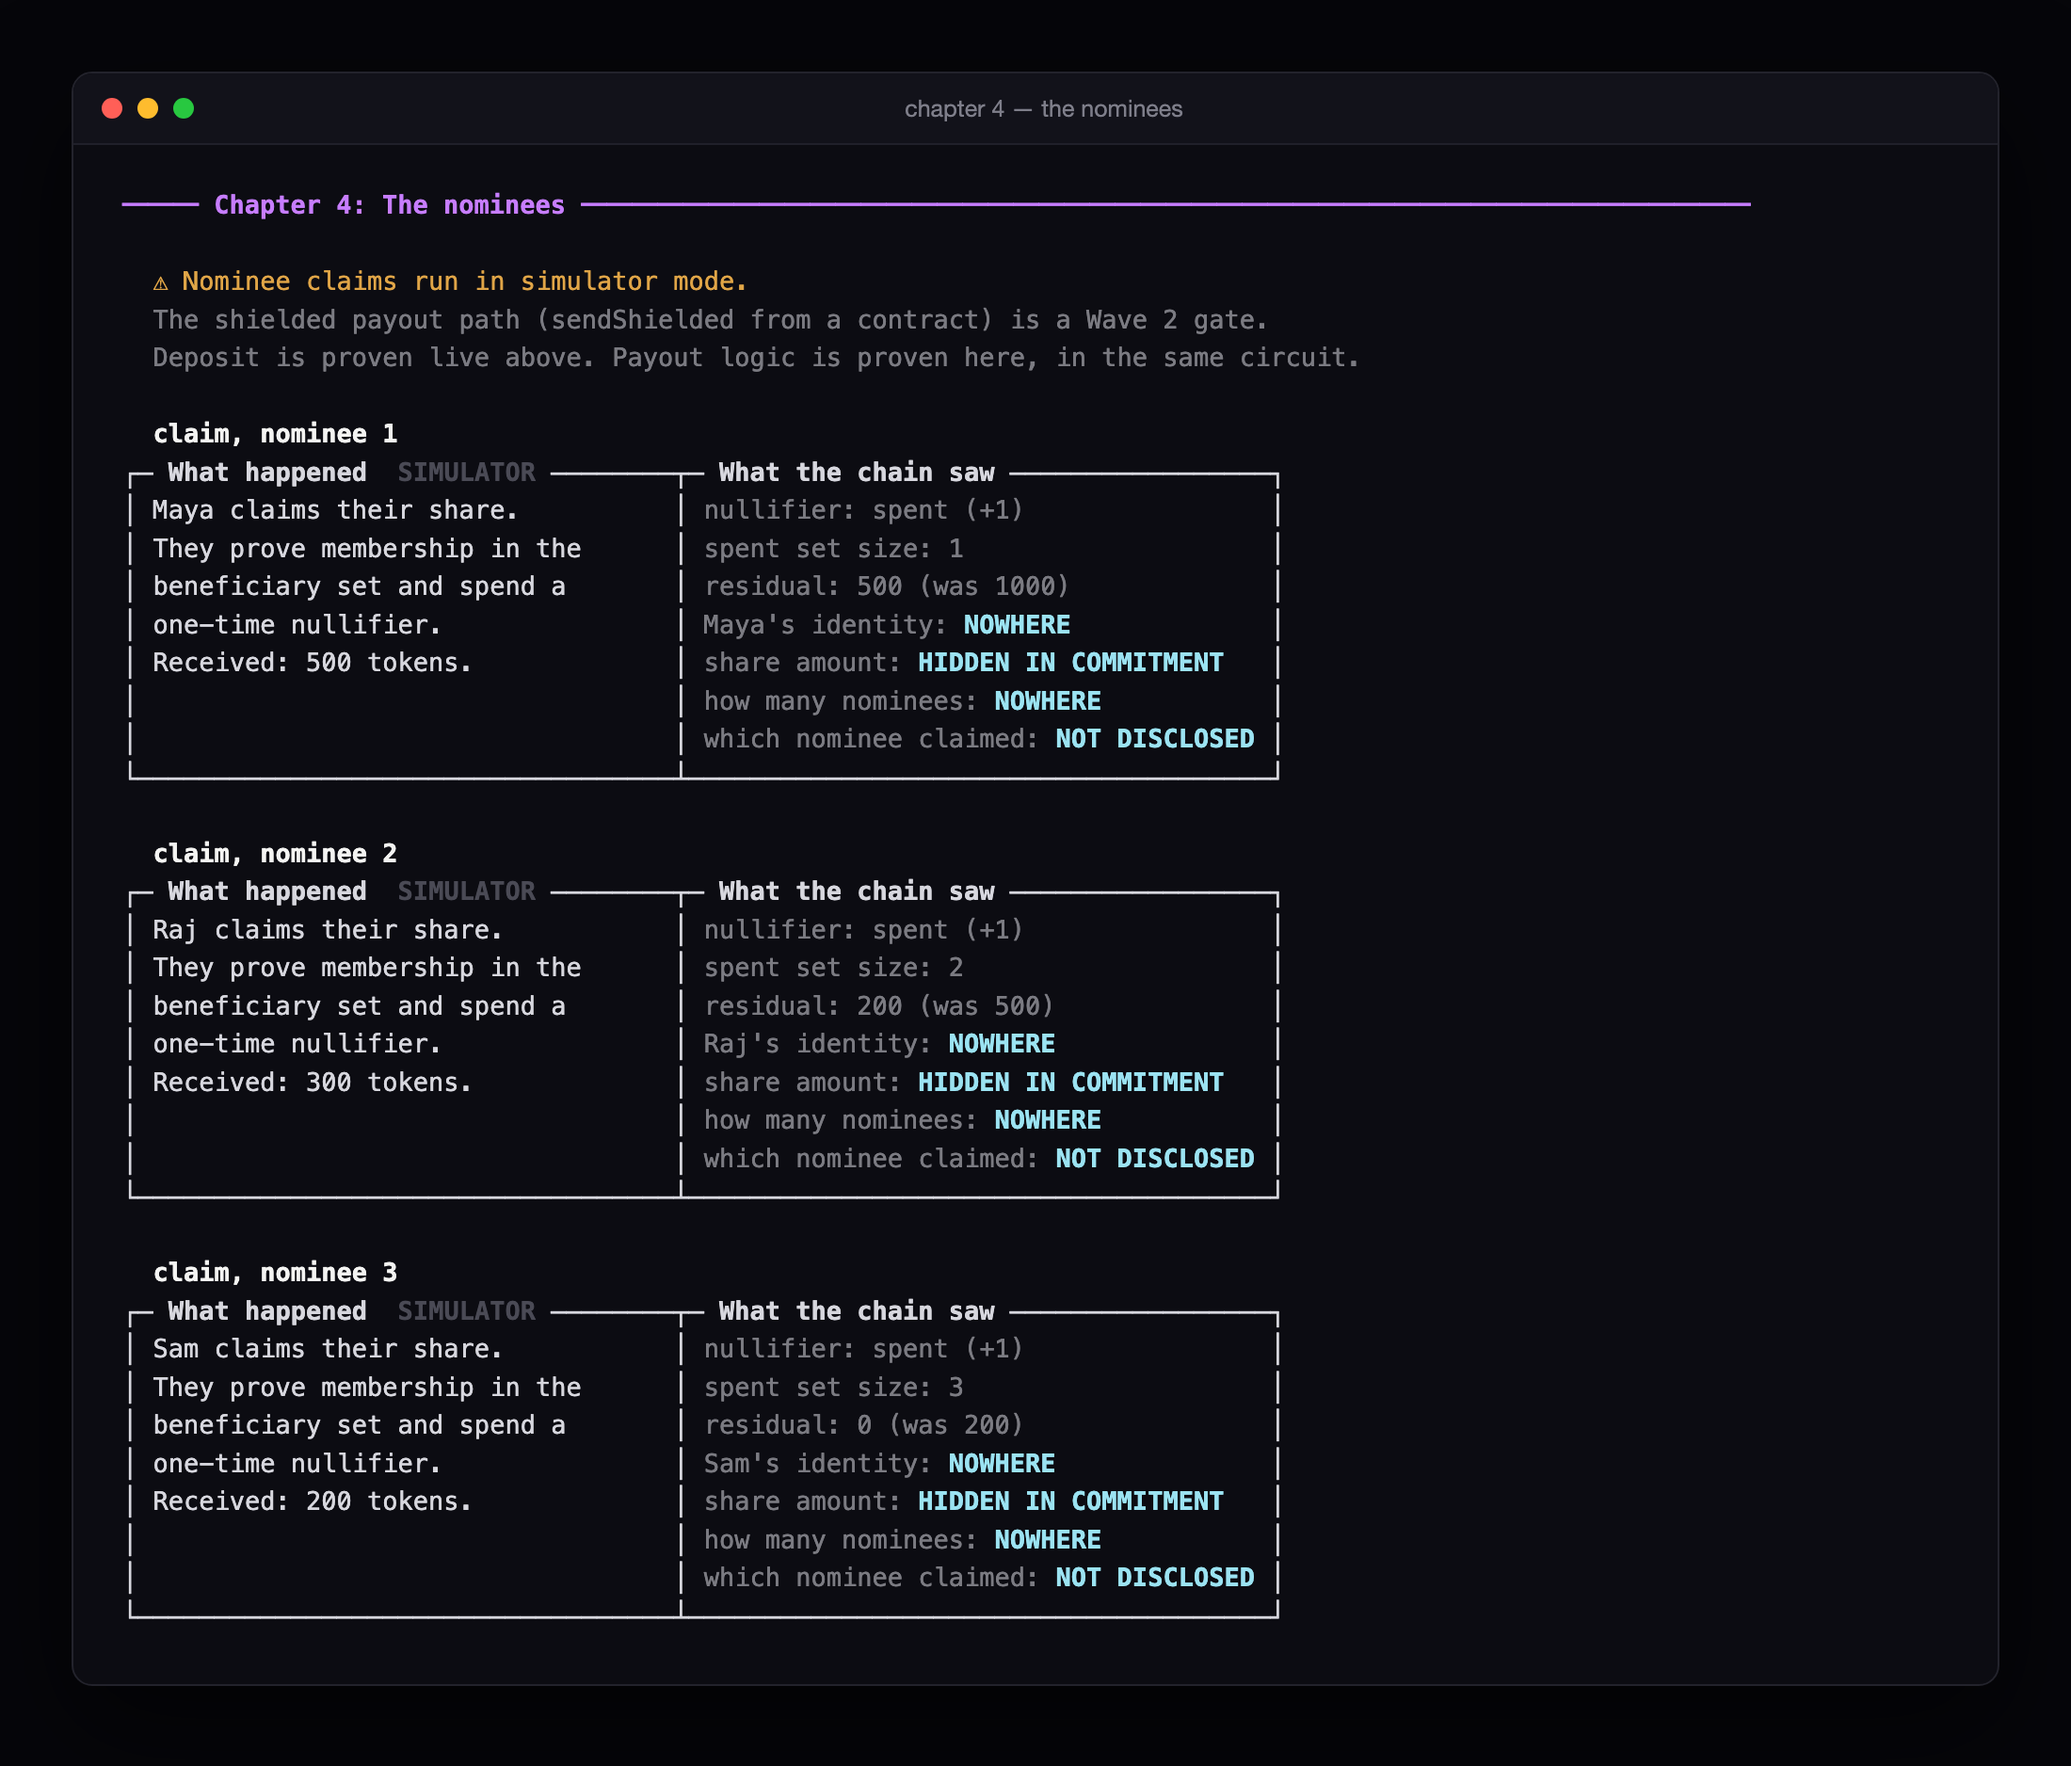
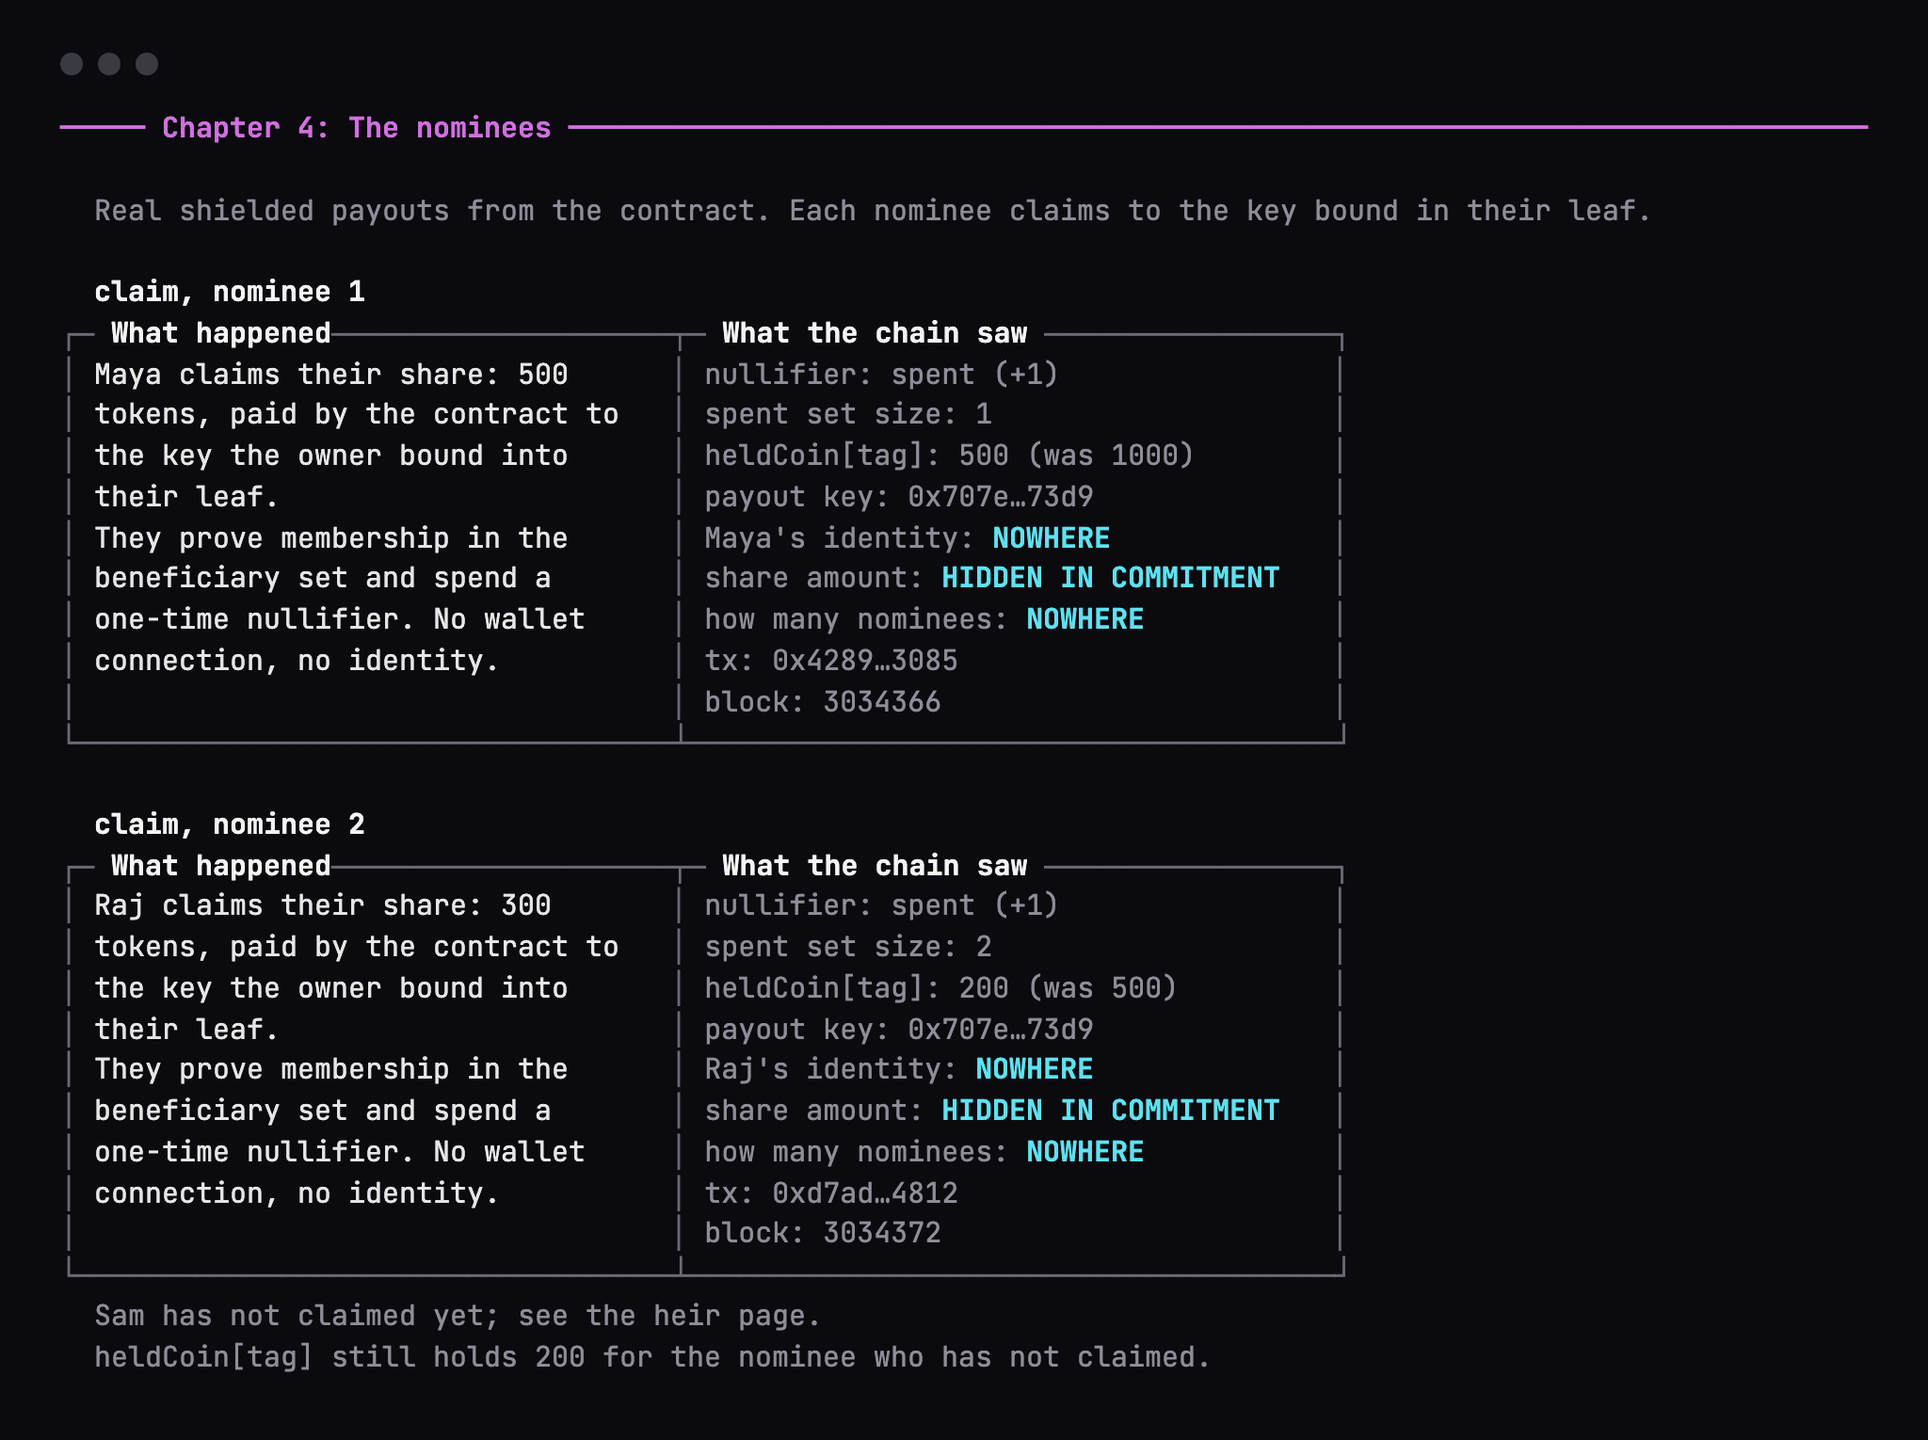
readme: screenshots from the live Preprod run
- the CLI screenshots are now the live Preprod run behind
  deployments/preprod.json (contract d06ccea1...083c0609), replacing the
  Wave 1 images that showed simulator claims: chapter 1, resolution and the
  veto window, the payouts, the six refusals, the faked-death chapter, and
  what the chain learned
- the on-chain section leads with Preprod; the devnet run follows
- notes that the refusal panels say SIMULATOR by design, and what to do
  when a live deploy fails
- the summary box said 'Devnet txs' on every network; now 'On-chain txs'

Changed region(s): [[0.0312, 0.0307, 0.8438, 0.9523], [0.3125, 0.0614, 0.9688, 0.0922], [0.5312, 0.1843, 0.6562, 0.215]]

diff --git a/cli/src/display.ts b/cli/src/display.ts
@@ -139,7 +139,7 @@ export function summary(stats: {
   row(`Circuits: ${stats.circuits} compiled  │  Max k=${stats.maxK}  │  Keys: ${stats.keysMB} MB`);
   row(`Tests: ${stats.tests}  │  Leak check: ${stats.leak}`);
   row(stats.live
-    ? `Devnet txs: ${stats.txs} accepted  │  Shielded payouts on chain: ${stats.claims}`
+    ? `On-chain txs: ${stats.txs} accepted  │  Shielded payouts on chain: ${stats.claims}`
     : `Simulator run  │  Shielded payouts (simulated): ${stats.claims}`);
   row();
   row('The chain never learned:');

diff --git a/README.md b/README.md
@@ -14,10 +14,12 @@ nominee.world · built on Midnight
 
 Wave 1: [video](https://youtu.be/Fb69qNrujFU) · [deck](docs/nominee-deck.pdf)
 
-![The demo, chapter 1](docs/screenshots/1-a-life.png)
+![The demo on Preprod, chapter 1](docs/screenshots/1-a-life.png)
 
 Every step of the demo prints two panels. What actually happened on the left,
-what the chain got out of it on the right.
+what the chain got out of it on the right. Above: the live run on Midnight's
+public Preprod network that `deployments/preprod.json` records, with a real
+transaction and block on every step.
 
 ---
 
@@ -134,7 +136,29 @@ their own secret, share and Merkle path.
 
 ### On chain
 
-A recorded live run is in [`deployments/devnet.json`](deployments/devnet.json):
+The whole story runs on Midnight's public Preprod network, recorded in
+[`deployments/preprod.json`](deployments/preprod.json): **19 accepted
+transactions** on contract `d06ccea1…3c0609`, blocks 3,034,294 to 3,034,432.
+That covers deploy, register, a deposit, device-signed heartbeats and will
+update, `resolve`, `finalize`, three claims, the faked-death veto and the
+guardian path. Two claims came from the CLI. Sam's came from the heir web page
+in block 3,034,432. Anyone can look up any hash on the Preprod indexer, or open
+the contract in the
+[Preprod explorer](https://preprod.midnightexplorer.com/contracts/d06ccea10c211b5bf2b9de325cafa33136a6ac3cb371c5178cbd8243083c0609).
+An earlier deploy of the first contract, from 11 October, is kept in
+[`deployments/history/`](deployments/history).
+
+![Resolve opens a veto window, then finalize](docs/screenshots/2-silence-and-resolve.png)
+
+![The contract pays the nominees](docs/screenshots/3-nominees-claim.png)
+
+The faked-death chapter, also live: Ben's vault is resolved against him while he
+is alive, his secret alone vetoes it, `finalize` is refused, and later two of his
+three guardians open it.
+
+![Faked death, contested](docs/screenshots/9-faked-death.png)
+
+**On a local devnet.** A recorded live run is in [`deployments/devnet.json`](deployments/devnet.json):
 **17 accepted transactions** on contract `7de3ca92…fee440`. Deploy, two
 verifier-key inserts, register, deposit, two device-signed heartbeats, a
 device-signed `updateWill`, `resolve`, `finalize`, three `claim`s (`heldCoin`
@@ -146,18 +170,6 @@ Two of the claims came from the CLI (blocks 5470 and 5475). The third came from
 the heir web page: the run held Sam back with `NOMINEE_HOLD_HEIR=sam`, then
 Sam's envelope was pasted into the claim server, which proved and submitted
 the claim in block 5499.
-
-**On Preprod.** The same story ran on the public Preprod network, recorded in
-[`deployments/preprod.json`](deployments/preprod.json): **19 accepted
-transactions** on contract `d06ccea1…3c0609`, blocks 3,034,294 to 3,034,432.
-That covers deploy, register, a deposit, device-signed heartbeats and will
-update, `resolve`, `finalize`, three claims, the faked-death veto and the
-guardian path. Two claims came from the CLI. Sam's came from the heir web page
-in block 3,034,432. Anyone can look up any hash on the Preprod indexer, or open
-the contract in the
-[Preprod explorer](https://preprod.midnightexplorer.com/contracts/d06ccea10c211b5bf2b9de325cafa33136a6ac3cb371c5178cbd8243083c0609).
-An earlier deploy of the first contract, from 11 October, is kept in
-[`deployments/history/`](deployments/history).
 
 One difference from the devnet. The funded Preprod wallet holds unshielded
 NIGHT, and NIGHT cannot be shielded, so the vault there holds **tNOM**. tNOM is
@@ -194,6 +206,13 @@ registry with fresh secrets every run.
 
 The script picks Node 22 and starts a local proof server 8.1.3 on port 6301. It
 masks the Blockfrost id in all output.
+
+A live run never falls back to the simulator. If the deploy fails it stops
+with `Live deploy failed, nothing was recorded` and the ledger code; run the
+same command again. Retries such as `Custom(170)` or a DUST coin still in
+flight recover on their own. Don't stop a run in the middle of a chapter: the
+wallet has only a couple of fee coins, and a half-submitted transaction holds
+one for a few minutes.
 
 The first run scans about 1.7 million DUST events, which takes about 30
 minutes with the machine awake. It checkpoints to `~/.nominee/`, so later runs
@@ -252,13 +271,15 @@ Full detail (state layout, per-circuit inputs, envelope format, threat model) is
 - A heartbeat stopped
 - A window opened, and whether it was contested
 - N anonymous claims were made
-- No double-claim succeeded
+- No double-claim, stolen seed or replayed signature succeeded
 
 ### Attacks, run every time the demo runs
 
 ![Attacks refused](docs/screenshots/4-attacks-refused.png)
 
-Six refusals: a nominee claiming twice, a stranger, a nominee asking for more
+These panels say SIMULATOR on purpose: a refusal happens when the circuit
+runs, before any proof exists, so there is no transaction to send. Six
+refusals: a nominee claiming twice, a stranger, a nominee asking for more
 than they were left, a stolen seed heartbeating without the device, a stolen
 envelope claiming to a different payout key, and a guardian signature for one
 vault replayed against another.
